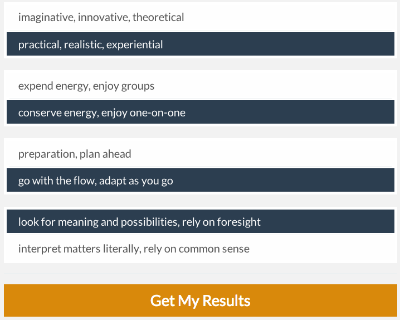
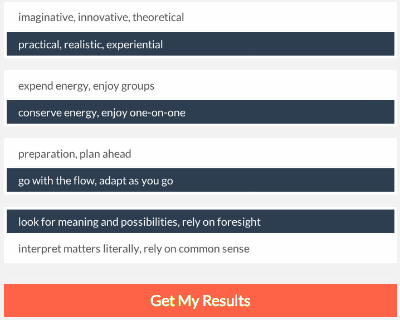
landing page improvements

Changed region(s): [[0.0, 0.875, 1.0, 1.0]]

diff --git a/app/assets/stylesheets/landing_page_flatty.css.scss b/app/assets/stylesheets/landing_page_flatty.css.scss
@@ -1,3 +1,14 @@
+.svg-img {
+  // display: block;
+  // margin: auto;
+  height: 200px;
+}
+
+// svg {
+//   display: block;
+//   margin: auto;
+// }
+
 #landing-page {
   h1, h2, h3, h4, h5, h6 {
       font-family: 'Lato', sans-serif;
@@ -151,13 +162,31 @@
       }
   }
 
-  #bottomwrap {
+  #mid-wrap {
     h1 {
       color: white;
+      margin-top: 8%;
+    }
+
+    p {
+      margin: auto;//0 8% 5% 0;
+      max-width: 300px;
+      color: rgba(255, 255, 255, 0.7);
+    }
+    object {
+      margin-top: 12%;
     }
     width: 100%;
     background-color: #2C3E50;
     padding-bottom: 3%;
+  }
+
+  #bottom {
+    h4 {
+      color: rgba(0, 0, 0, 0.6)
+    }
+
+    margin-bottom: 5%;
   }
 }
 

diff --git a/app/assets/stylesheets/body.css.scss b/app/assets/stylesheets/body.css.scss
@@ -1,4 +1,9 @@
 // testing no curved edges design
+
+html {
+  overflow-x:hidden !important;
+}
+
 * {
   border-radius: 0px !important;
 }
@@ -16,7 +21,6 @@ a, li, img {
 
 
 body {
-  overflow-x:hidden;
   background-color: #f2f2f2 !important;
   margin-top: 85px;
   padding-bottom: 60px;

diff --git a/app/assets/stylesheets/custom_bootstrap/variables.less b/app/assets/stylesheets/custom_bootstrap/variables.less
@@ -18,7 +18,7 @@
 @brand-primary:         #2C3E50;
 @brand-success:         #18BC9C;
 @brand-info:            #3498DB;
-@brand-warning:         #D9890B; // #F39C12
+@brand-warning:         tomato; // #D9890B // #F39C12
 @brand-danger:          #E74C3C;
 
 
